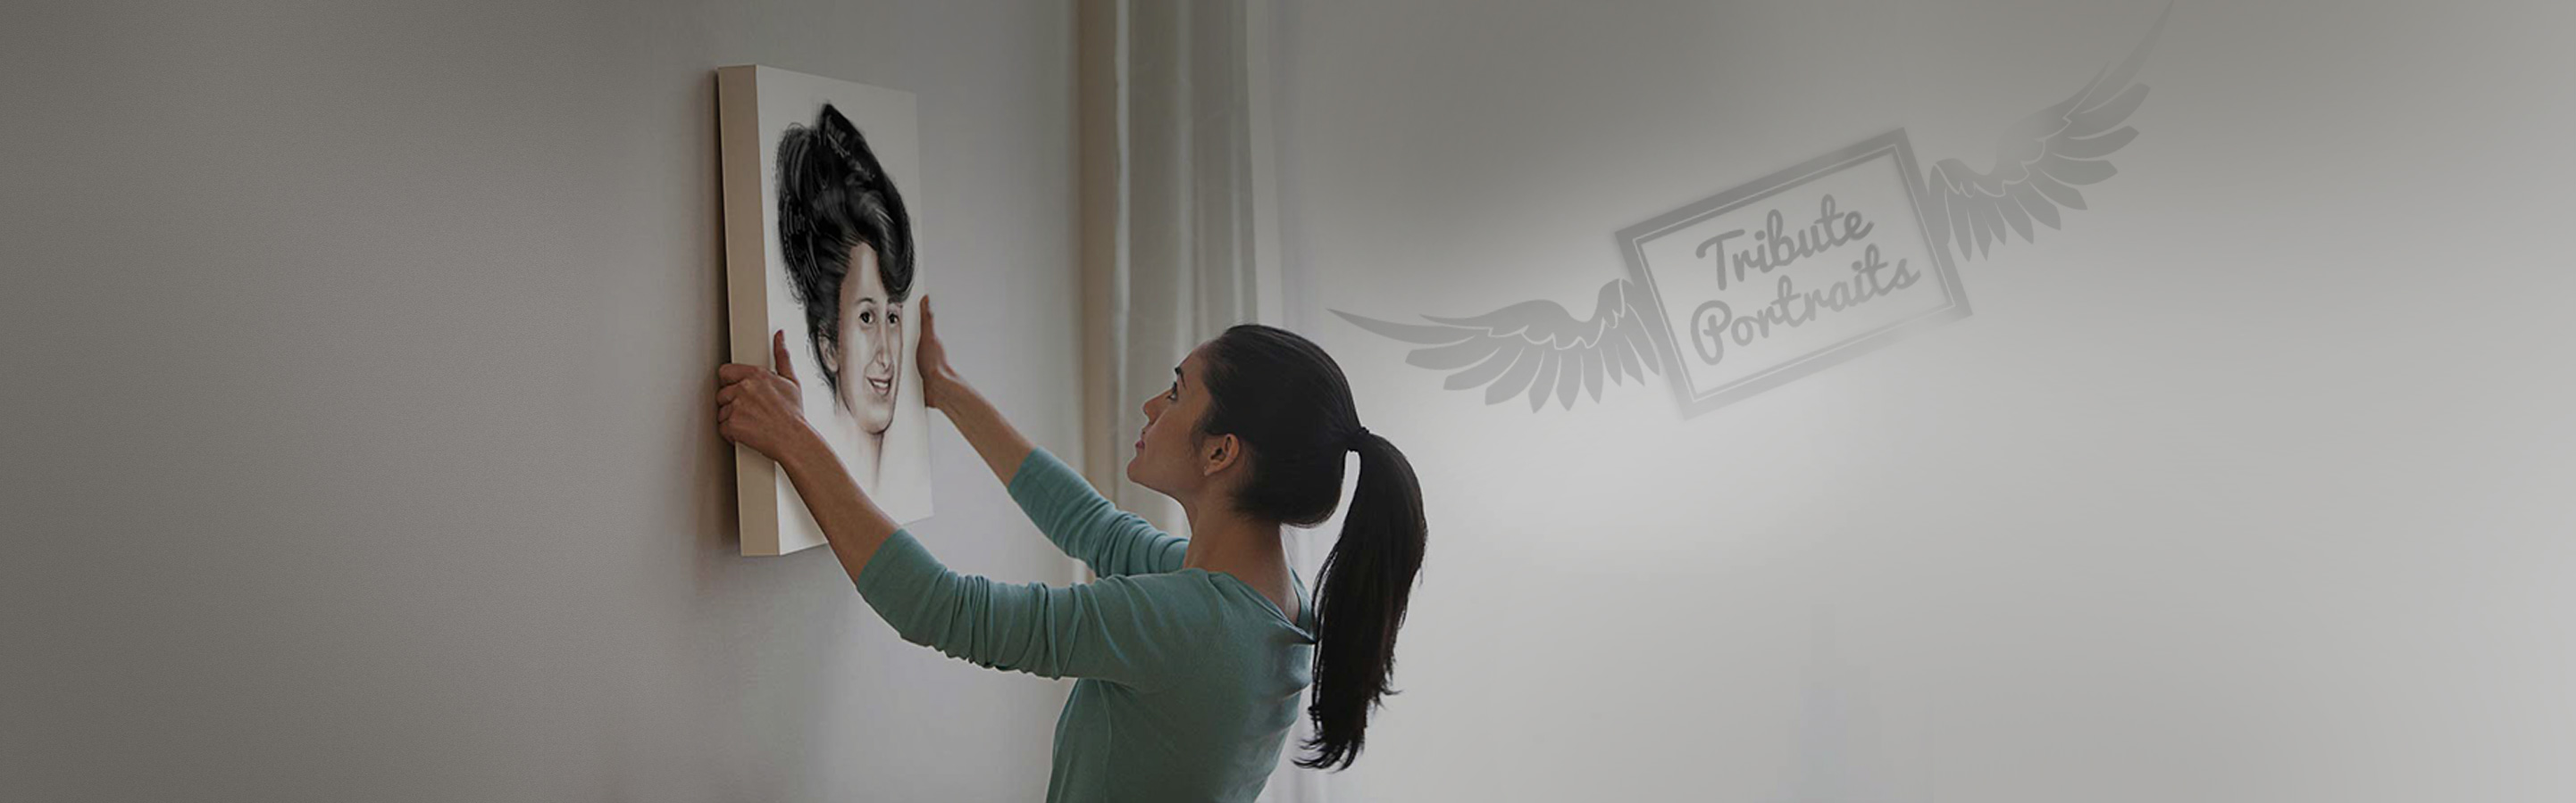
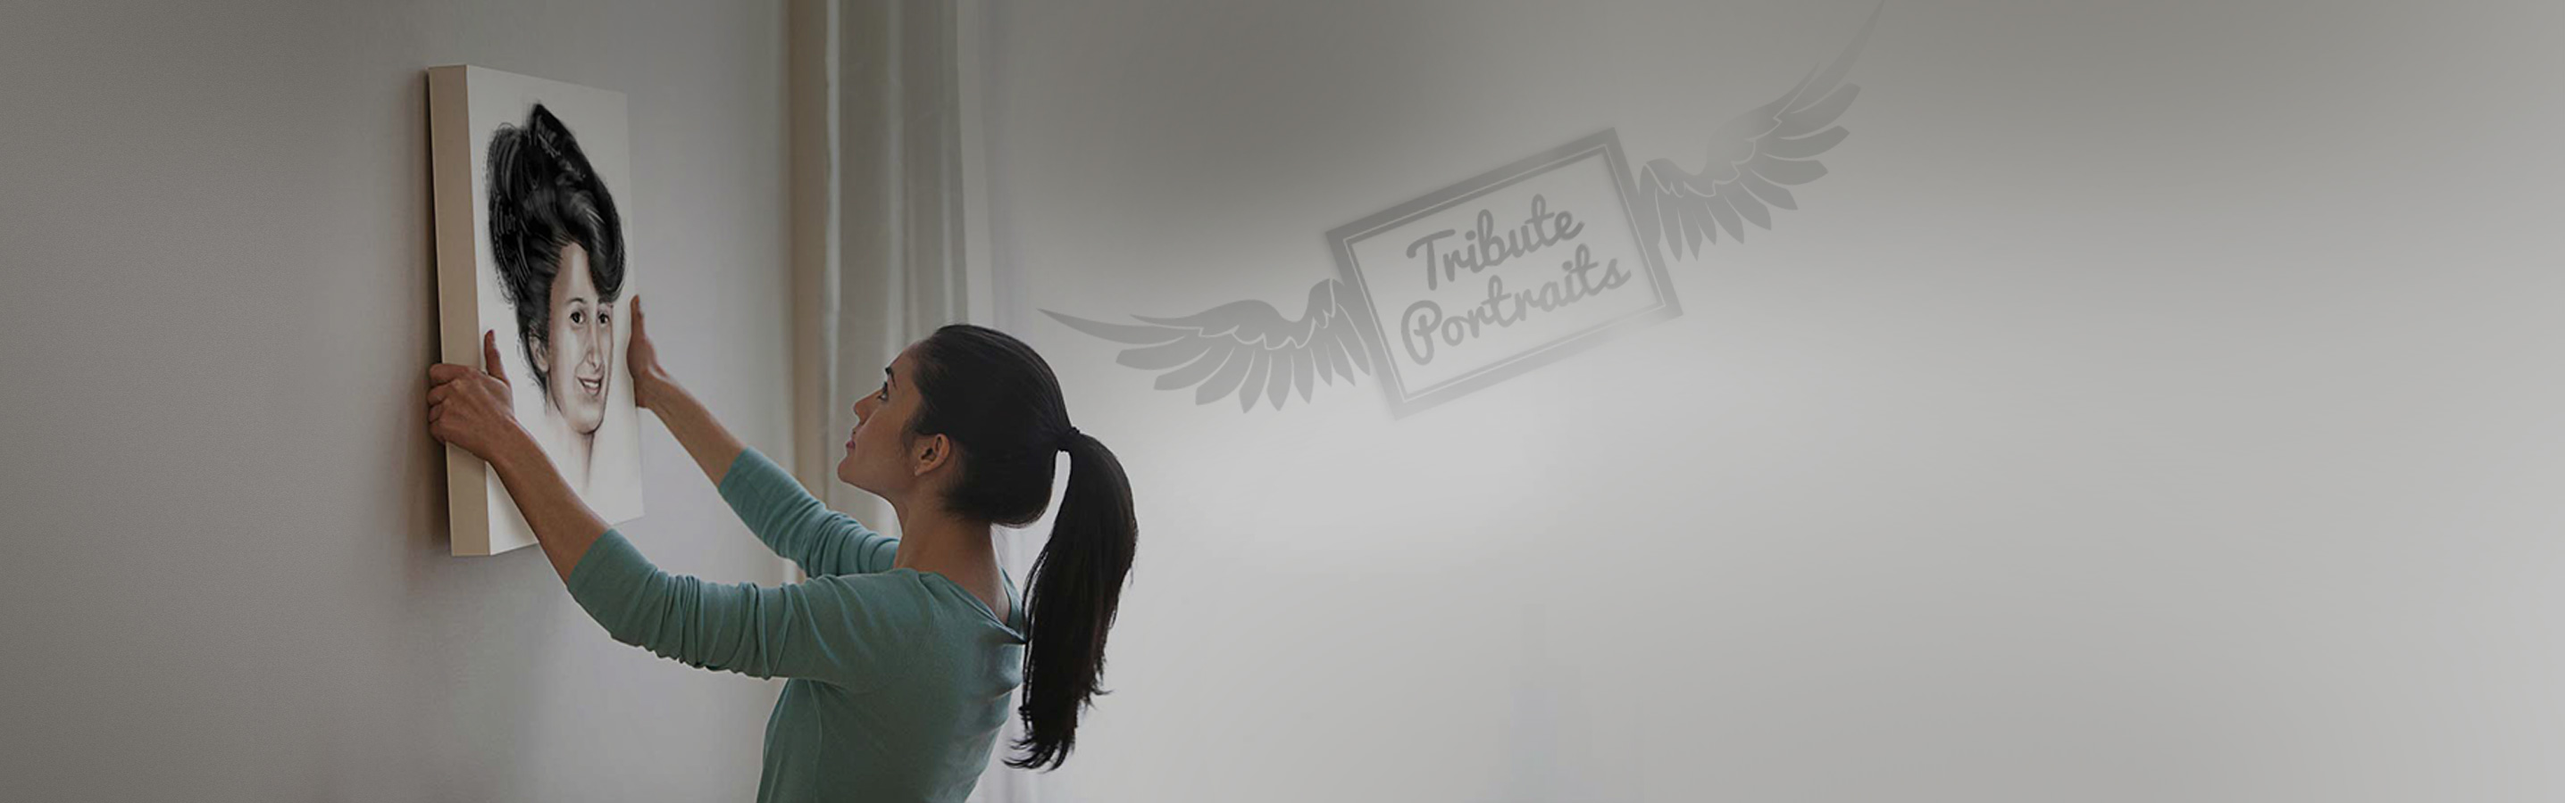
knknk

Changed region(s): [[0.1549, 0.0, 0.7437, 1.0]]

diff --git a/unit_6/css/style.css b/unit_6/css/style.css
@@ -51,8 +51,14 @@ nav a:hover {
 header {
 
 	background-image: url(http://scherma72.github.io/unit_6/images/2372x900px-hero.jpg);
- 	background-position: right;
+ 	background-position: left;
+    background-size: 100%;
+    position: absolute;
     background-size: cover;
+    position: relative;
+    background-color: #979695;
+    height: 37em;
+    background-repeat: no-repeat;
 
 
 }
